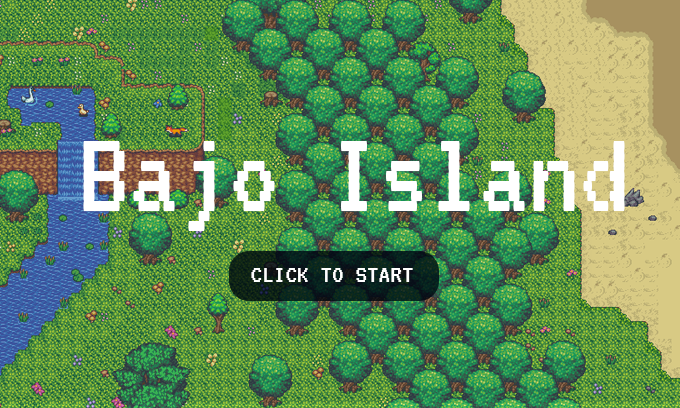
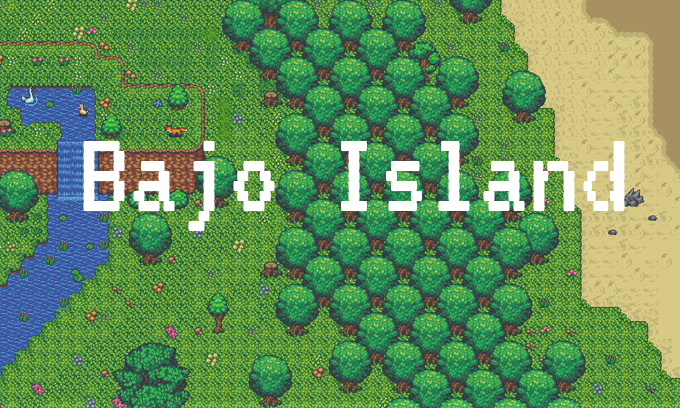
added input name feature and stored name in game object

Changed region(s): [[0.3397, 0.6176, 0.6485, 0.7353]]

diff --git a/index.html b/index.html
@@ -20,41 +20,21 @@
     <section>
         <nav class="navbar">
             <h1 class="navbar__title">Bajo Island</h1>
-            <a href="#" class="navbar__reg-btn">Register
-            <a href="#" class="navbar__login-btn">Login
-            </a></a><section class="navbar__drop-down reg-box">
-              <form action="https://bajo-island-api.herokuapp.com/api/register" method="post" class="navbar__form">
-                <p>Register your player name</p>
-                <input name="name" type="text" placeholder="Player name" class="navbar__form-input navbar__reg-name">
-                <br>
-                <input type="password" placeholder="Password" class="navbar__form-input">
-                <br>
-                <span class="navbar__form-validation"></span>
-                <input type="submit" value="Register" class="navbar__nav-link">
-              </form>
-            </section>
-            <section class="navbar__drop-down login-box">
-              <form action="https://bajo-island-api.herokuapp.com/api/register" method="get" class="navbar__form">
-                <p>Login</p>
-                <input name="name" type="text" placeholder="Player name" class="navbar__form-input navbar__login-name">
-                <br>
-                <input type="password" placeholder="Password" class="navbar__form-input">
-                <br>
-                <span class="navbar__form-validation"></span>
-                <input type="submit" value="Login" class="navbar__nav-link">
-              </form>
-            </section>
-        </nav>
+            </nav></section>
+        
         <section class="game">
             <div class="game__container" id="game-container">
                 <article class="game__status-bar">
                   <!-- status bar renders here -->
                 </article>
                   <!-- game renders here -->
+                <article class="game__name-input">
+                  <!-- name input field here -->
+<!--                   <textarea class="game__textarea" name="name" placeholder="ENTER PLAYER NAME"></textarea> -->
+                </article>
             </div>
-
           </section>
-    </section>
+    
     <section class="guide">
       <article class="guide__container">
         <h2>Welcome to Bajo Island!</h2>

diff --git a/src/index.html b/src/index.html
@@ -23,29 +23,6 @@
     <section>
         <nav class="navbar">
             <h1 class = "navbar__title">Bajo Island</h1>
-            <a href="#" class="navbar__reg-btn">Register</h4>
-            <a href="#" class="navbar__login-btn">Login</h4>
-            <section class="navbar__drop-down reg-box">
-              <form action="https://bajo-island-api.herokuapp.com/api/register" method="post" class="navbar__form">
-                <p>Register your player name</p>
-                <input name="name" type="text" placeholder="Player name" class="navbar__form-input navbar__reg-name">
-                <br>
-                <input type="password" placeholder="Password" class="navbar__form-input">
-                <br>
-                <span class="navbar__form-validation"></span>
-                <input type="submit" value="Register" class="navbar__nav-link">
-              </form>
-            </section>
-            <section class="navbar__drop-down login-box">
-              <form action="https://bajo-island-api.herokuapp.com/api/register" method="get" class="navbar__form">
-                <p>Login</p>
-                <input name="name" type="text" placeholder="Player name" class="navbar__form-input navbar__login-name">
-                <br>
-                <input type="password" placeholder="Password" class="navbar__form-input">
-                <br>
-                <span class="navbar__form-validation"></span>
-                <input type="submit" value="Login" class="navbar__nav-link">
-              </form>
             </section>
         </nav>
         <section class="game">
@@ -54,8 +31,11 @@
                   <!-- status bar renders here -->
                 </article>
                   <!-- game renders here -->
+                <article class="game__name-input">
+                  <!-- name input field here -->
+<!--                   <textarea class="game__textarea" name="name" placeholder="ENTER PLAYER NAME"></textarea> -->
+                </article>
             </div>
-
           </section>
     </section>
     <section class="guide">

diff --git a/src/scenes/TitleScene.js b/src/scenes/TitleScene.js
@@ -3,24 +3,43 @@ import Prefab from '../prefabs/Prefab';
 import TextPrefab from '../prefabs/TextPrefab';
 
 class TitleScene extends JSONLevelScene {
-    constructor() {
-        super('TitleScene');
-        
-        this.prefab_classes = {
-            background: Prefab.prototype.constructor,
-            text: TextPrefab.prototype.constructor
-        }
+  constructor() {
+    super('TitleScene');
+
+    this.prefab_classes = {
+      background: Prefab.prototype.constructor,
+      text: TextPrefab.prototype.constructor
     }
-    
-    update () {
-        if (this.input.activePointer.isDown) {
-            this.start_game();
-        }
-    }
-    
-    start_game() {
-        this.scene.start('BootScene', {scene: 'mayor'});
-    }
+  }
+
+  create() {
+    super.create();
+    this.renderInput();
+  }
+
+  update () {
+    // if (this.input.activePointer.isDown) {
+    //   this.start_game();
+    // }
+
+    let enterKey = this.input.keyboard.addKey(Phaser.Input.Keyboard.KeyCodes.ENTER);
+    if (enterKey.isDown) {
+      this.start_game();
+    };
+
+    const name = $('.game__textarea').val();
+    this.sys.game.playerStats.name = name;
+  }
+
+  renderInput() {
+    const textarea = $('<textarea>').addClass('game__textarea').attr("name", "name").attr("placeholder", "ENTER PLAYER NAME");
+    const article = $('.game__name-input');
+    article.append(textarea);
+  }
+
+  start_game() {
+    this.scene.start('BootScene', {scene: 'mayor'});
+  }
 }
 
 export default TitleScene;

diff --git a/styles/_game.scss b/styles/_game.scss
@@ -17,6 +17,23 @@
     text-align: center;
   }
 
+  &__name-input {
+    position: absolute;
+    margin: auto;
+    left: 0;
+    right: 0;
+  }
+
+  &__textarea {
+    background-color: rgba( $primary, 0.8);
+    font-size: 2.5em;
+    color: white;
+    border-radius: 25px;
+    border: none;
+    height: 70px;
+    margin-top: 375px;
+  }
+
   &__message_white {
     background-color: $reverse;
     color: $black;
